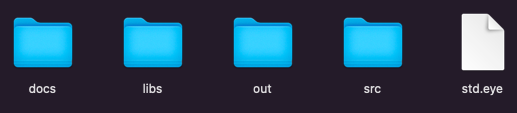
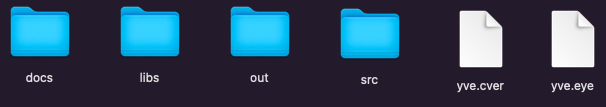
added readme

diff --git a/README.md b/README.md
@@ -51,7 +51,7 @@ If the project name contains only numeric characters, the program is ill-formed.
 
  ### 3.1 Usage
 
-``create-std``
+``create-yve``
 
 This will create the following project folder:
 
@@ -62,8 +62,11 @@ and inside the project folder, the following project structure:
 
 ![](project-structure.png)
 
-and inside the '.eye' extension file, the following content:
+and inside the '.cver' & '.eye' extension file, the following contents:
+![](project-cver.png)
 ![](project-eye.png)
+
+We will explain the formats of these domain-specific languages later.
 
 If the project folder or any of the items of the project structure couldn't be created, the program is ill-formed.
 
@@ -77,12 +80,9 @@ If the project name contains only numeric characters, the program is ill-formed.
 
  ### 4.1 Usage
 
-``compile-std``
+``compile-yve``
 
 This will compile the specified project folder.
 
 If the project folder or any of the items of its project structure is missing, the program is ill-formed.
 
- ## 5. Front-end pipeline
-
-When a project folder is specified along with the compile command, the 
